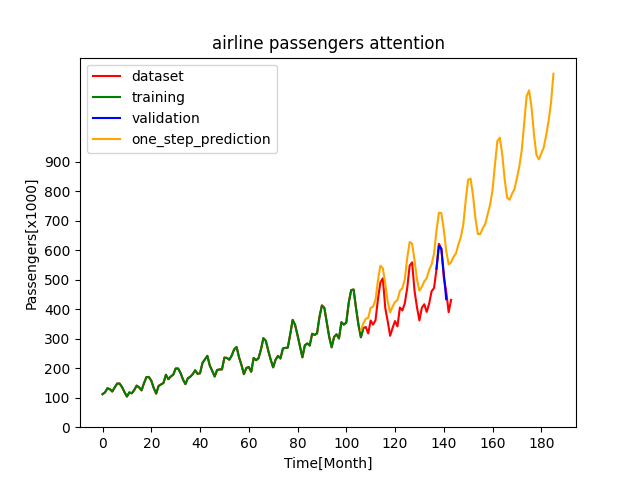
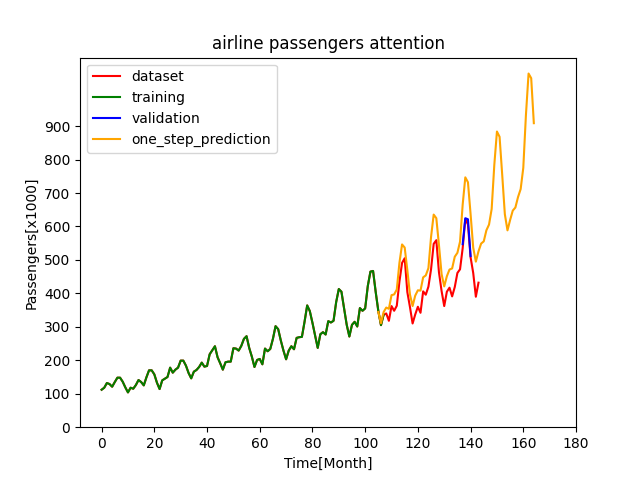
ad early stopping to advanced workflow, optimize airline_passengers_keras_attention

diff --git a/TimeSeriesPrediction/UnivariatTimeSeriesForecast/AirlinePassengers/Keras/workflows/airline_passengers_keras_advanced_workflow.py b/TimeSeriesPrediction/UnivariatTimeSeriesForecast/AirlinePassengers/Keras/workflows/airline_passengers_keras_advanced_workflow.py
@@ -1,5 +1,6 @@
 import matplotlib.pyplot as plt
 from sklearn.preprocessing import MinMaxScaler
+from keras.callbacks import EarlyStopping
 from keras import optimizers
 from TimeSeriesPrediction.UnivariatTimeSeriesForecast.AirlinePassengers.airline_passengers_utilities import *
 
@@ -9,7 +10,7 @@ BATCH_SIZE = 1
 LOOK_BACK = 30
 LOOK_OUT = 1
 PREDICTION_START = -1
-NUMBER_OF_PREDICTIONS = 80
+NUMBER_OF_PREDICTIONS = 60
 
 
 def workflow(model, name):
@@ -23,8 +24,10 @@ def workflow(model, name):
     train_timeseries, train_targets = TimeSeriesGenerator(scaled_train, LOOK_BACK, LOOK_OUT).create_timeseries()
     test_timeseries, test_targets = TimeSeriesGenerator(scaled_test, LOOK_BACK, LOOK_OUT).create_timeseries()
 
+    early_stopping = EarlyStopping(monitor='loss', patience=50, verbose=1, restore_best_weights=True)
+
     model.compile(optimizer=optimizers.Adam(LEARNING_RATE), loss='mean_squared_error')
-    model.fit(train_timeseries, train_targets, epochs=EPOCHS, batch_size=BATCH_SIZE)
+    model.fit(train_timeseries, train_targets, epochs=EPOCHS, batch_size=BATCH_SIZE, callbacks=[early_stopping])
 
     validation_results = validation_forecast(model, test_timeseries)
 
@@ -44,7 +47,7 @@ def workflow(model, name):
     prediction = pd.DataFrame()
     test = train_scaler.inverse_transform([prediction_results]).flatten()
     prediction["one_step_prediction"] = test
-    prediction.index += airline_passengers.threshold + start_index
+    prediction.index += airline_passengers.threshold + start_index - 1
 
     plt.plot(airline_passengers.data["Passengers"], color="red", label="dataset")
     plt.plot(airline_passengers.get_train_data(), color="green", label="training")

diff --git a/TimeSeriesPrediction/UnivariatTimeSeriesForecast/AirlinePassengers/Keras/models/airline_passengers_keras_attention.py b/TimeSeriesPrediction/UnivariatTimeSeriesForecast/AirlinePassengers/Keras/models/airline_passengers_keras_attention.py
@@ -23,15 +23,11 @@ class EncoderModel(Model):
                                             bias_initializer=initializers.Zeros())
 
     def call(self, inputs):
-        #x1 = self.normalize(inputs)
         x1 = self.attention(inputs, inputs)
-        x1 = self.dropout(x1)
 
         res = x1 + inputs
 
-        #x2 = self.normalize(res)
         x2 = self.convolution1(res)
-        x2 = self.dropout(x2)
         x2 = self.convolution2(x2)
 
         x2 = self.global_pooling(x2)
